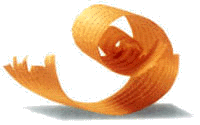
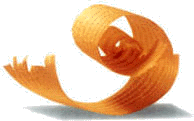
Purge unused files

diff --git a/app/reports/work_process_report.rb b/app/reports/work_process_report.rb
@@ -71,7 +71,7 @@ class WorkProcessReport < Prawn::Document
           c.size = 16
         end
       end
-      pdf.image "#{Rails.root}/assets/spaane3.png", :position => :right, :width => 75, :at => [pdf.bounds.right-75, 0]
+      pdf.image "#{Rails.root}/assets/spaane.png", :position => :right, :width => 75, :at => [pdf.bounds.right-75, 0]
 
       # *****************************************************************
       # *****************************************************************
